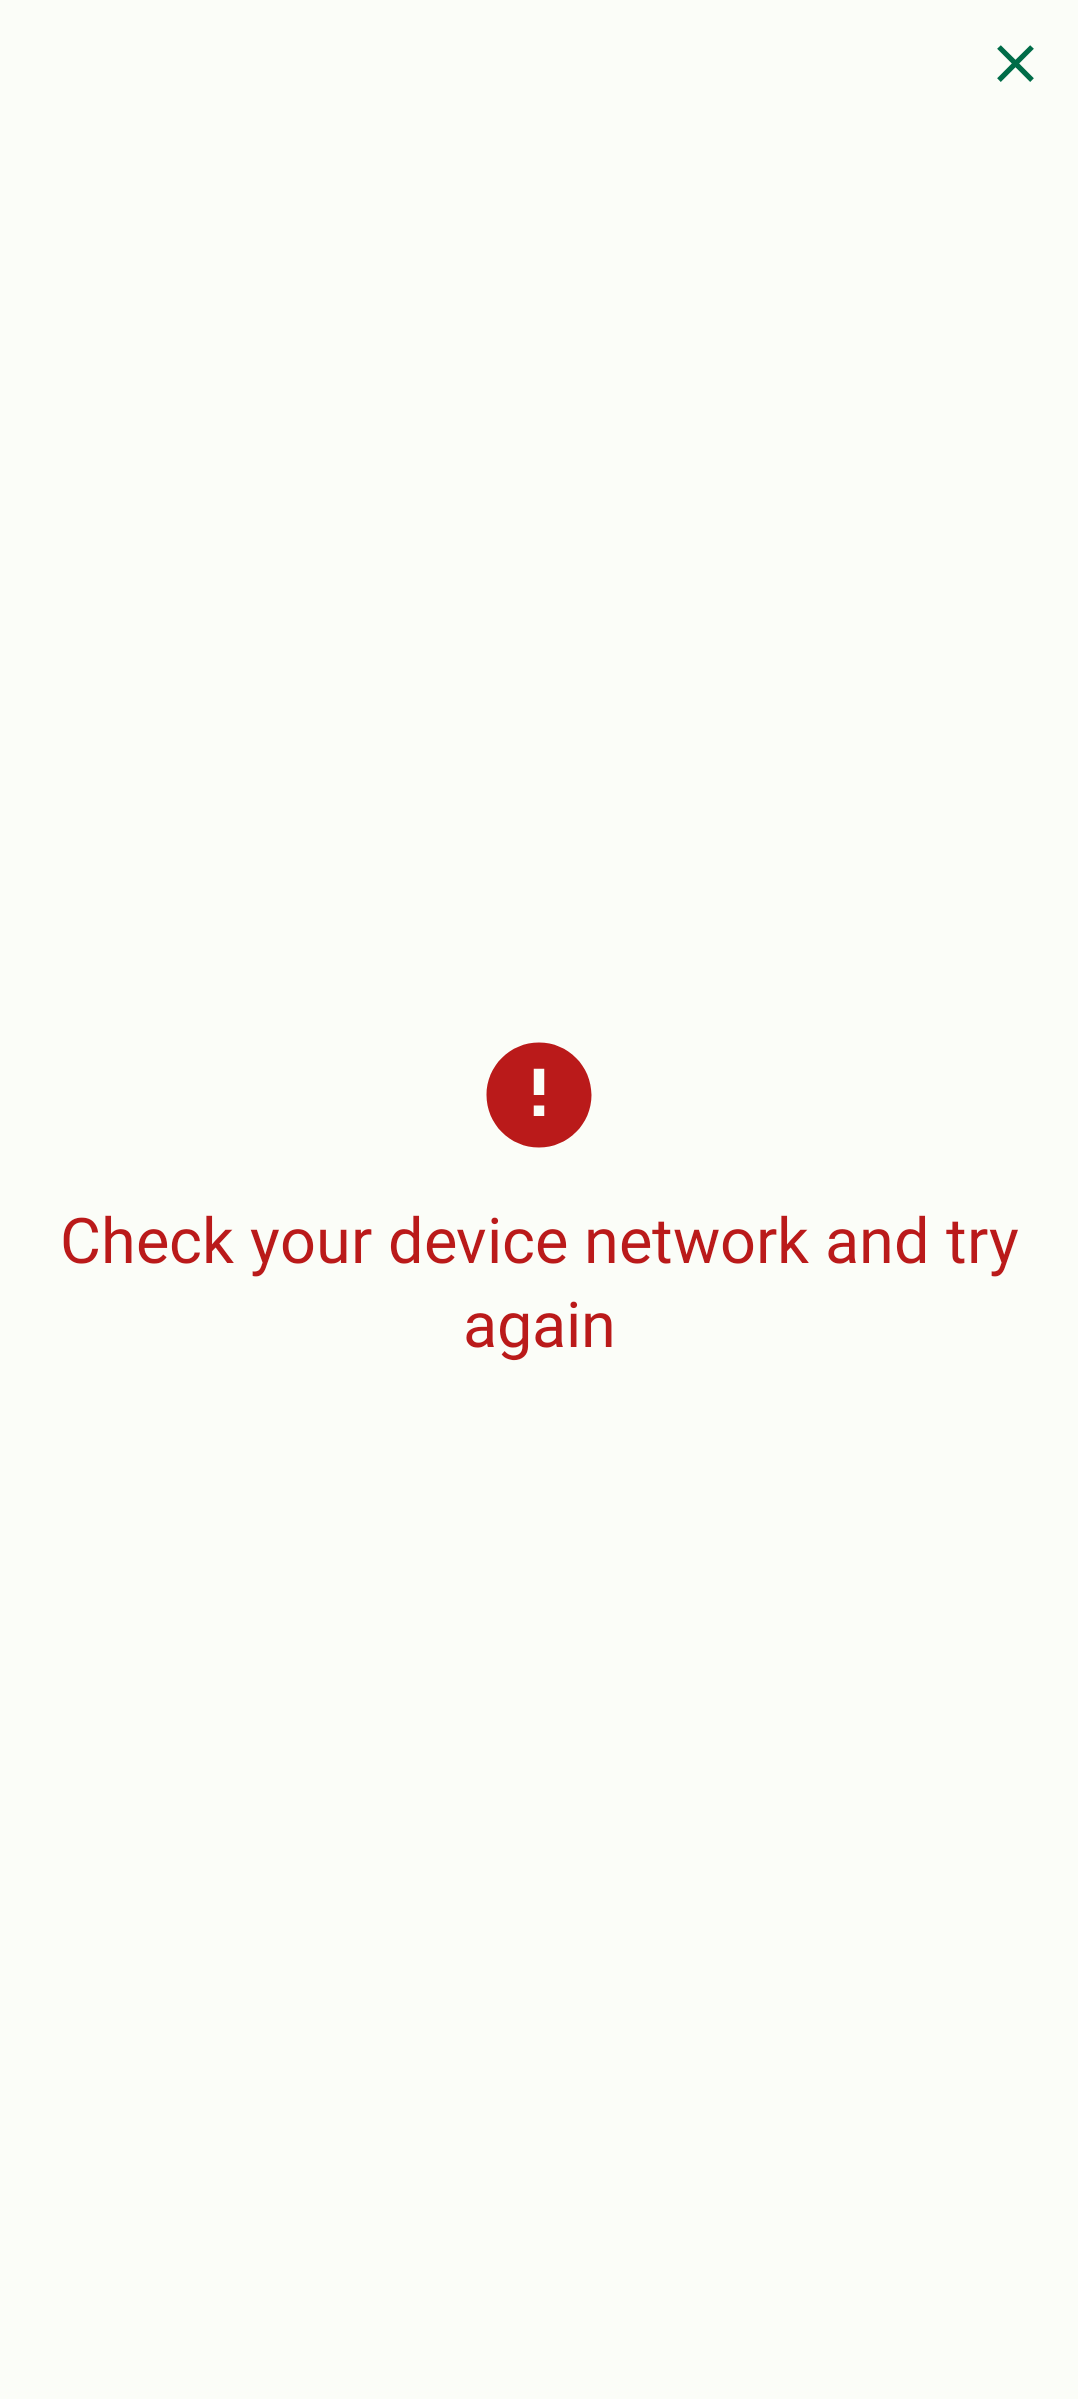
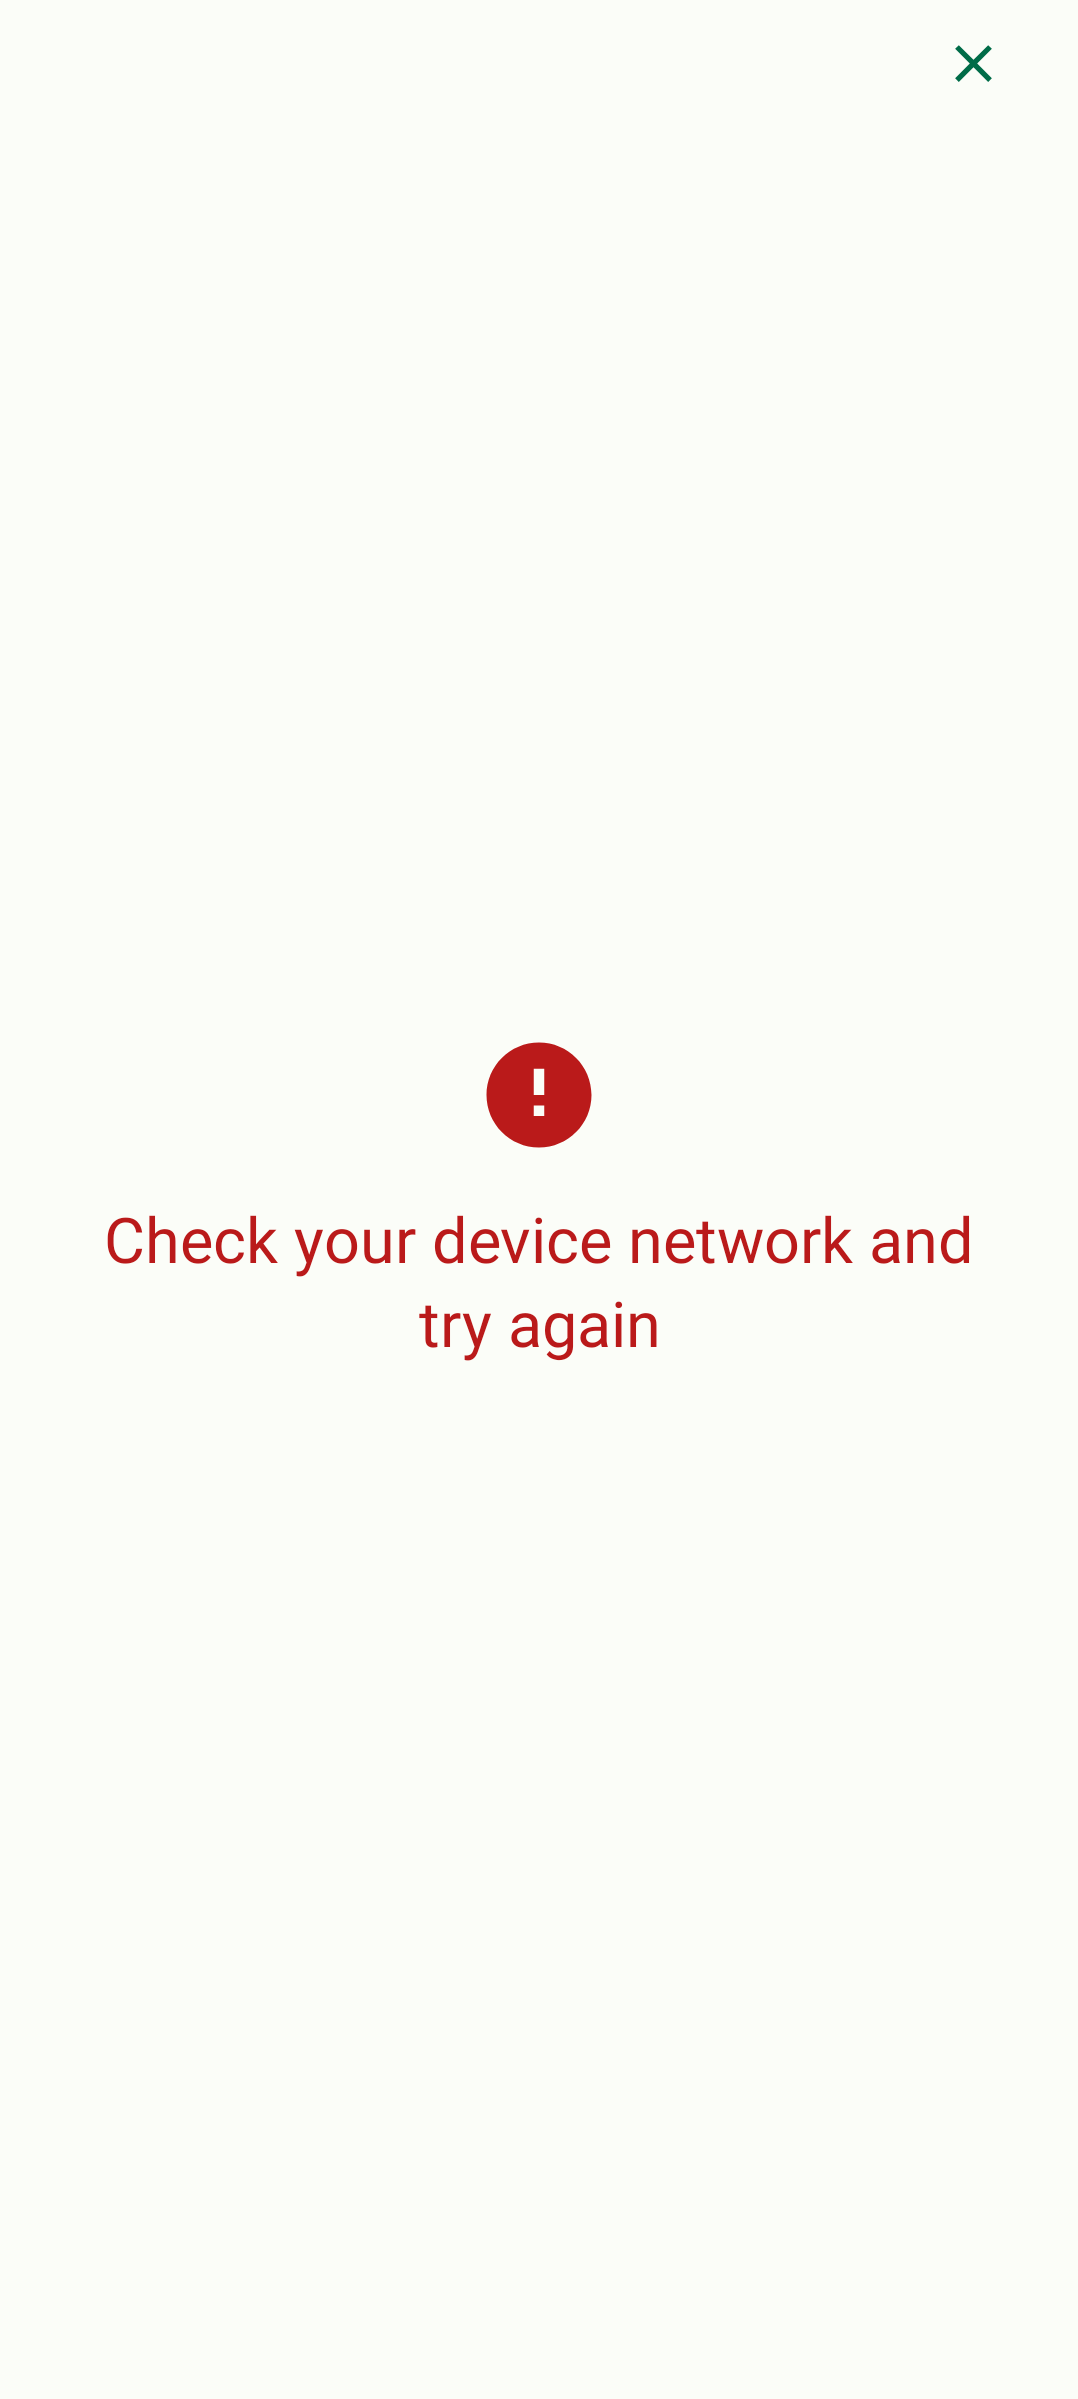
[copilot/android-improvements-and-exercises] refactor(post): adjust contentWindowInsets to use vertical only for improved layout

Changed region(s): [[0.0612, 0.4935, 0.949, 0.5861], [0.8878, 0.0, 0.949, 0.0308]]

diff --git a/feature/posts/src/main/java/com/alxnophis/jetpack/posts/ui/composable/PostDetailScreen.kt b/feature/posts/src/main/java/com/alxnophis/jetpack/posts/ui/composable/PostDetailScreen.kt
@@ -6,9 +6,11 @@ import androidx.compose.foundation.layout.Box
 import androidx.compose.foundation.layout.Column
 import androidx.compose.foundation.layout.Spacer
 import androidx.compose.foundation.layout.WindowInsets
+import androidx.compose.foundation.layout.WindowInsetsSides
 import androidx.compose.foundation.layout.fillMaxSize
 import androidx.compose.foundation.layout.fillMaxWidth
 import androidx.compose.foundation.layout.height
+import androidx.compose.foundation.layout.only
 import androidx.compose.foundation.layout.padding
 import androidx.compose.foundation.layout.safeGestures
 import androidx.compose.foundation.layout.size
@@ -64,7 +66,7 @@ internal fun PostDetailLoading() {
                 Modifier
                     .fillMaxSize()
                     .background(MaterialTheme.colorScheme.surface),
-            contentWindowInsets = WindowInsets.safeGestures,
+            contentWindowInsets = WindowInsets.safeGestures.only(WindowInsetsSides.Vertical),
         ) { paddingValues ->
             Box(
                 modifier =
@@ -107,13 +109,14 @@ internal fun PostDetailUiErrors(
                     Modifier
                         .fillMaxSize()
                         .background(MaterialTheme.colorScheme.surface),
-                contentWindowInsets = WindowInsets.safeGestures,
+                contentWindowInsets = WindowInsets.safeGestures.only(WindowInsetsSides.Vertical),
             ) { paddingValues ->
                 Box(
                     modifier =
                         Modifier
                             .fillMaxSize()
-                            .padding(paddingValues),
+                            .padding(paddingValues)
+                            .padding(horizontal = mediumPadding),
                 ) {
                     IconButton(
                         modifier =
@@ -169,7 +172,7 @@ internal fun PostDetailContent(
                 Modifier
                     .fillMaxSize()
                     .background(MaterialTheme.colorScheme.surface),
-            contentWindowInsets = WindowInsets.safeGestures,
+            contentWindowInsets = WindowInsets.safeGestures.only(WindowInsetsSides.Vertical),
         ) { paddingValues ->
             Column(
                 modifier =
